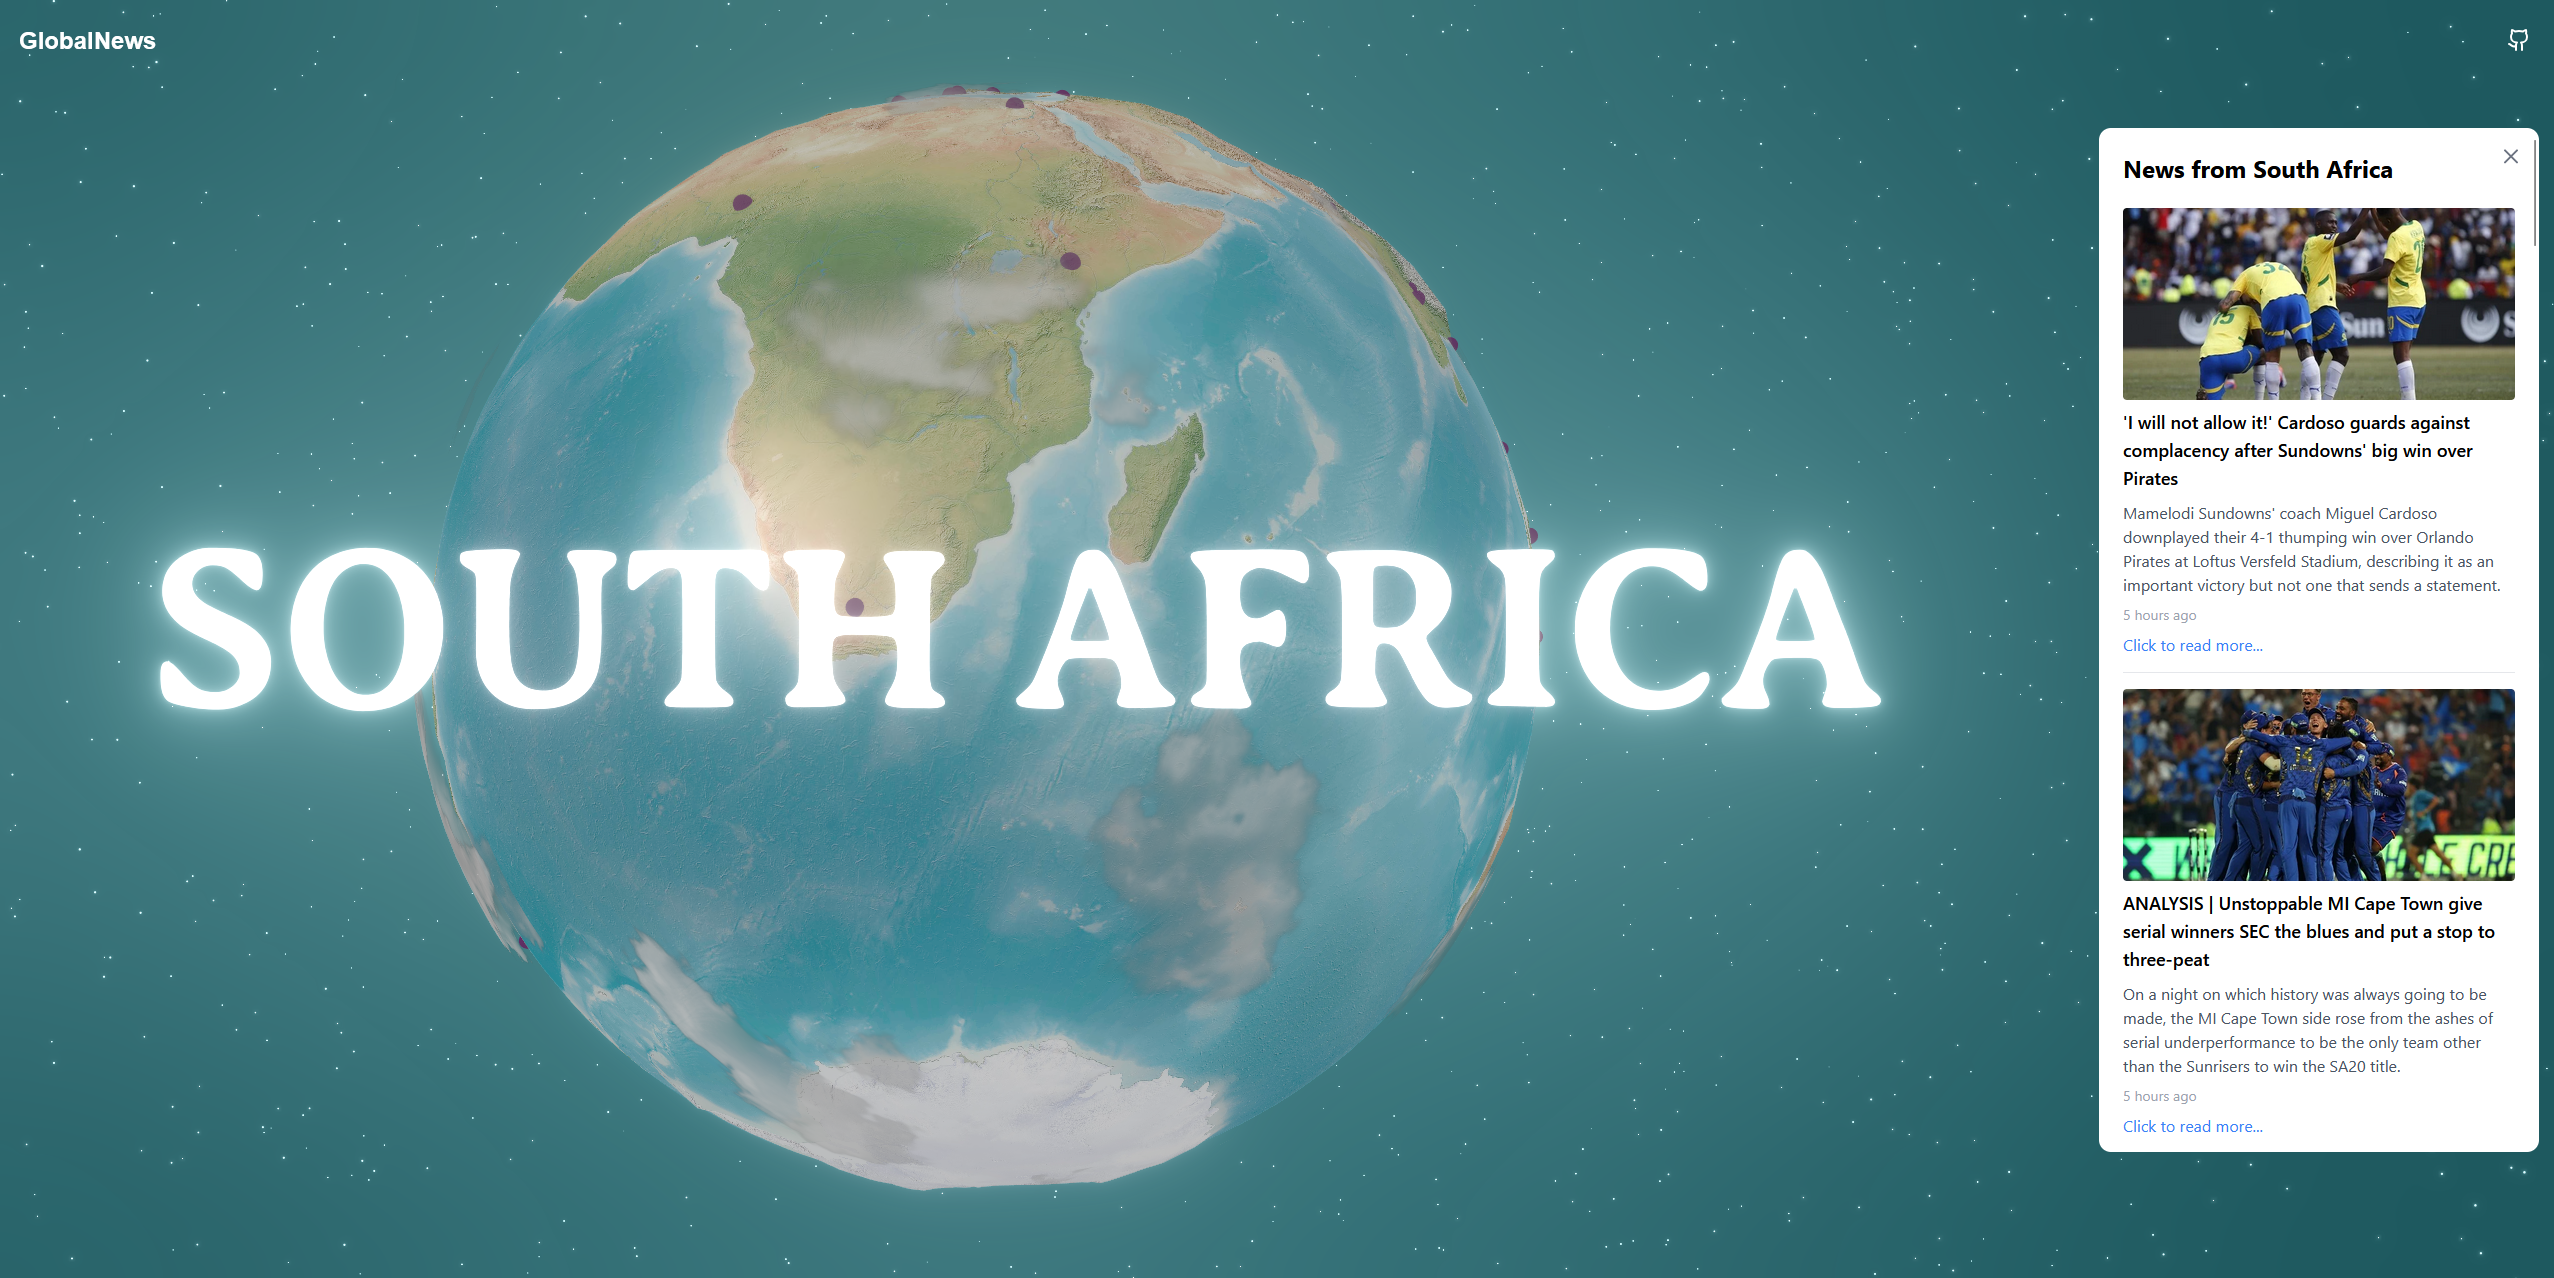
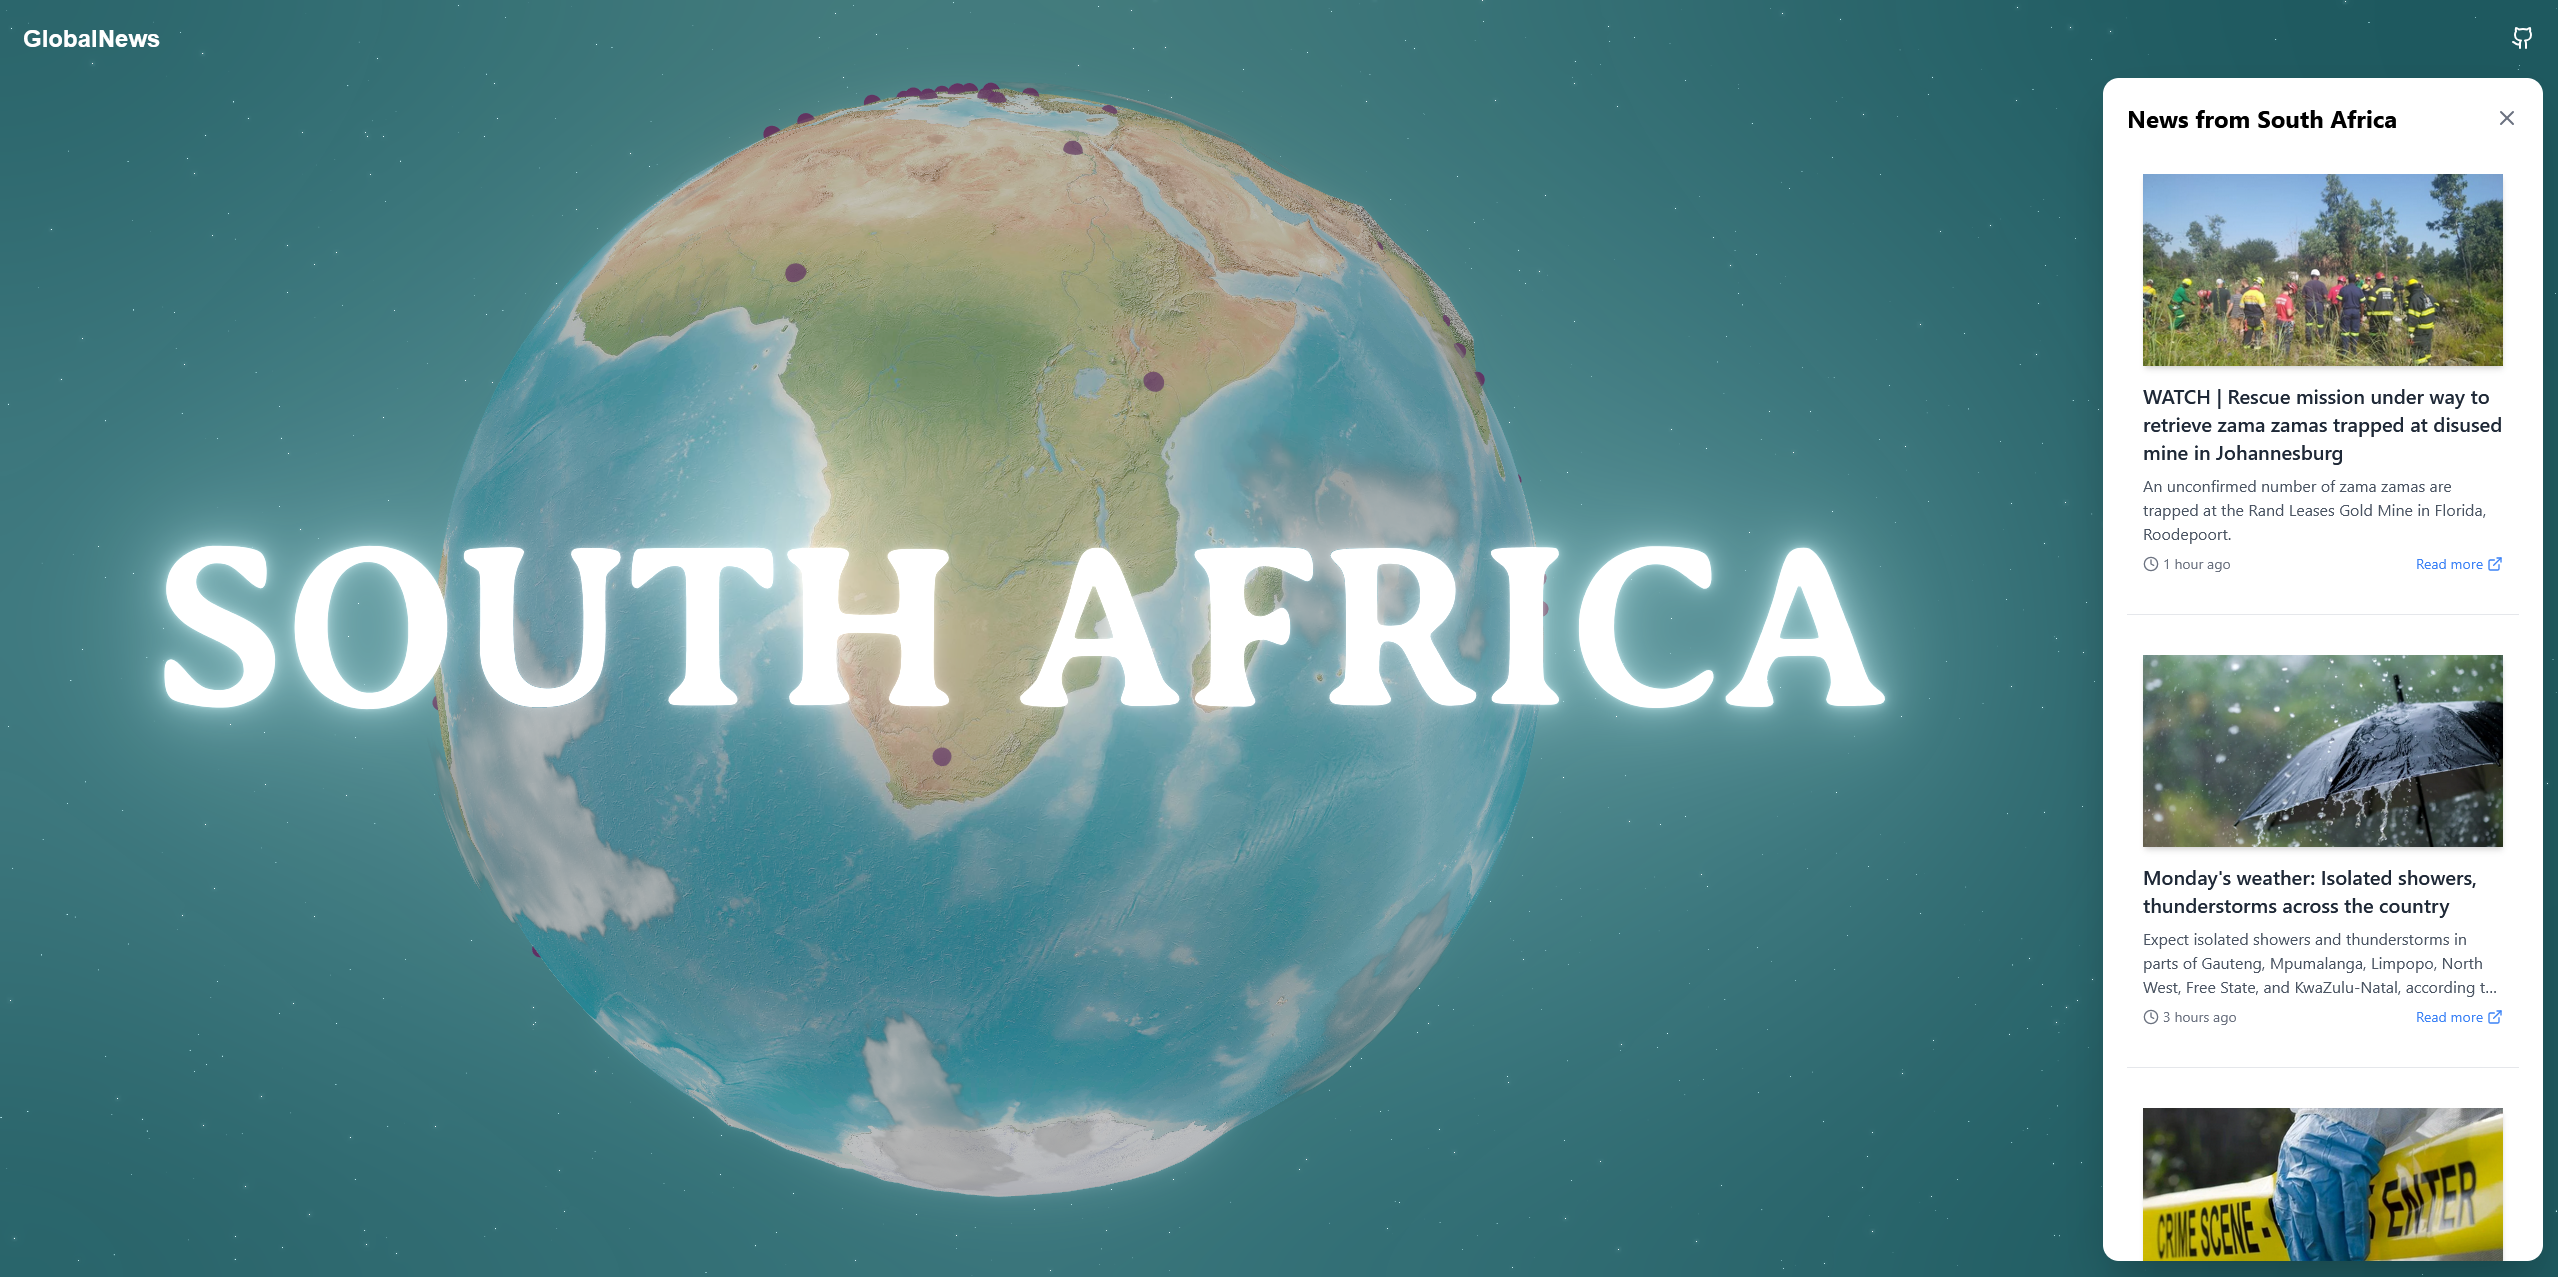
update: news panel design

diff --git a/app/components/NewsPanel.tsx b/app/components/NewsPanel.tsx
@@ -1,86 +1,111 @@
-import type React from "react";
-import type { News } from "../hooks/useNews";
+import type React from "react"
+import { motion, AnimatePresence } from "framer-motion"
+import { X, Clock, ExternalLink } from "lucide-react"
+import type { News } from "../hooks/useNews"
 
 interface NewsPanelProps {
-  country: string;
-  news: News[];
-  isLoading: boolean;
-  error: string | null;
-  onClose: () => void;
+  country: string
+  news: News[]
+  isLoading: boolean
+  error: string | null
+  onClose: () => void
 }
 
-const NewsPanel: React.FC<NewsPanelProps> = ({
-  country,
-  news,
-  isLoading,
-  error,
-  onClose,
-}) => {
+const NewsPanel: React.FC<NewsPanelProps> = ({ country, news, isLoading, error, onClose }) => {
   return (
-    <div className="fixed top-1/2 right-4 transform -translate-y-1/2 rounded-xl left-4 sm:left-auto w-auto sm:w-[440px] max-h-[80vh] bg-white text-black overflow-y-auto transition-transform duration-300 ease-in-out z-10">
-      <div className="p-6">
-        <div className="flex justify-between items-center mb-6">
-          <h2 className="text-2xl font-bold">News from {country}</h2>
-          <button
-            onClick={onClose}
-            className="text-gray-500 hover:text-gray-700 absolute top-4 right-4"
-          >
-            <svg
-              xmlns="http://www.w3.org/2000/svg"
-              className="h-6 w-6"
-              fill="none"
-              viewBox="0 0 24 24"
-              stroke="currentColor"
+    <AnimatePresence>
+      <motion.div
+        initial={{ x: "100%" }}
+        animate={{ x: 0 }}
+        exit={{ x: "100%" }}
+        transition={{ type: "spring", stiffness: 300, damping: 30 }}
+        className="fixed top-[5%] right-0 m-4 sm:left-auto h-[calc(100%-6rem)] w-[calc(100%-2rem)] sm:w-[440px] bg-white text-black overflow-y-auto shadow-2xl z-10 rounded-2xl"
+      >
+        <div className="p-6 rounded-2xl">
+          <div className="flex justify-between items-center mb-6">
+            <motion.h2
+              initial={{ opacity: 0, y: -20 }}
+              animate={{ opacity: 1, y: 0 }}
+              transition={{ delay: 0.2 }}
+              className="text-2xl font-bold"
             >
-              <path
-                strokeLinecap="round"
-                strokeLinejoin="round"
-                strokeWidth={2}
-                d="M6 18L18 6M6 6l12 12"
-              />
-            </svg>
-          </button>
-        </div>
-        {isLoading && (
-          <div className="space-y-4">
-            {[...Array(17)].map((_, index) => (
-              <div key={index} className="animate-pulse">
-                <div className="h-4 bg-gray-300 rounded w-3/4 mb-2"></div>
-                <div className="h-4 bg-gray-300 rounded w-1/2"></div>
-              </div>
-            ))}
+              News from {country}
+            </motion.h2>
+            <motion.button
+              whileHover={{ scale: 1.1 }}
+              whileTap={{ scale: 0.9 }}
+              onClick={onClose}
+              className="text-gray-500 hover:text-gray-700"
+            >
+              <X size={24} />
+            </motion.button>
           </div>
-        )}
-        {error && <p className="text-red-500">{error}</p>}
-        {!isLoading && news.length > 0 && (
-          <ul className="space-y-4">
-            {news.map((item, index) => (
-              <li key={index} className="border-b pb-4">
-                <a
-                  href={item.url}
-                  target="_blank"
-                  rel="noopener noreferrer"
-                  className="block hover:bg-gray-100 transition duration-150 ease-in-out"
+          {isLoading && (
+            <div className="space-y-4">
+              {[...Array(5)].map((_, index) => (
+                <motion.div
+                  key={index}
+                  initial={{ opacity: 0, y: 20 }}
+                  animate={{ opacity: 1, y: 0 }}
+                  transition={{ delay: index * 0.1 }}
+                  className="animate-pulse"
                 >
-                  {item.image && (
-                    <img
-                      src={item.image}
-                      alt={item.title}
-                      className="w-full h-48 object-cover mb-2 rounded"
-                    />
-                  )}
-                  <h3 className="text-lg font-semibold mb-2">{item.title}</h3>
-                  <p className="text-gray-600 mb-2">{item.description}</p>
-                  <p className="text-sm text-gray-400 mb-2">{item.age}</p>
-                  <p className="text-blue-500">Click to read more...</p>
-                </a>
-              </li>
-            ))}
-          </ul>
-        )}
-      </div>
-    </div>
-  );
-};
+                  <div className="h-48 bg-gray-300 rounded-lg mb-2"></div>
+                  <div className="h-4 bg-gray-300 rounded w-3/4 mb-2"></div>
+                  <div className="h-4 bg-gray-300 rounded w-1/2"></div>
+                </motion.div>
+              ))}
+            </div>
+          )}
+          {error && (
+            <motion.p initial={{ opacity: 0 }} animate={{ opacity: 1 }} className="text-red-500">
+              {error}
+            </motion.p>
+          )}
+          {!isLoading && news.length > 0 && (
+            <motion.ul className="space-y-6">
+              {news.map((item, index) => (
+                <motion.li
+                  key={index}
+                  initial={{ opacity: 0, y: 20 }}
+                  animate={{ opacity: 1, y: 0 }}
+                  transition={{ delay: index * 0.1 }}
+                  className="border-b border-gray-200 pb-6"
+                >
+                  <a
+                    href={item.url}
+                    target="_blank"
+                    rel="noopener noreferrer"
+                    className="block hover:bg-gray-50 transition duration-150 ease-in-out rounded-lg p-4"
+                  >
+                    {item.image && (
+                      <img
+                        src={item.image || "/placeholder.svg"}
+                        alt={item.title}
+                        className="w-full h-48 object-cover mb-4 rounded-lg shadow-md"
+                      />
+                    )}
+                    <h3 className="text-xl font-semibold mb-2 text-gray-800">{item.title}</h3>
+                    <p className="text-gray-600 mb-2 line-clamp-3">{item.description}</p>
+                    <div className="flex items-center justify-between text-sm text-gray-500">
+                      <span className="flex items-center">
+                        <Clock size={16} className="mr-1" />
+                        {item.age}
+                      </span>
+                      <span className="flex items-center text-blue-500 hover:text-blue-600">
+                        Read more
+                        <ExternalLink size={16} className="ml-1" />
+                      </span>
+                    </div>
+                  </a>
+                </motion.li>
+              ))}
+            </motion.ul>
+          )}
+        </div>
+      </motion.div>
+    </AnimatePresence>
+  )
+}
 
-export default NewsPanel;
+export default NewsPanel

diff --git a/types/news.ts b/types/news.ts
@@ -185,4 +185,10 @@ export const COUNTRY_NEWS_CONFIGS: Record<string, NewsConfig> = {
       return parseNewsItems(xml, this.url);
     },
   },
+  Netherlands: {
+    url: "https://www.omroepbrabant.nl/rss",
+    parser: function (xml: string) {
+      return parseNewsItems(xml, this.url);
+    },
+  },
 };
